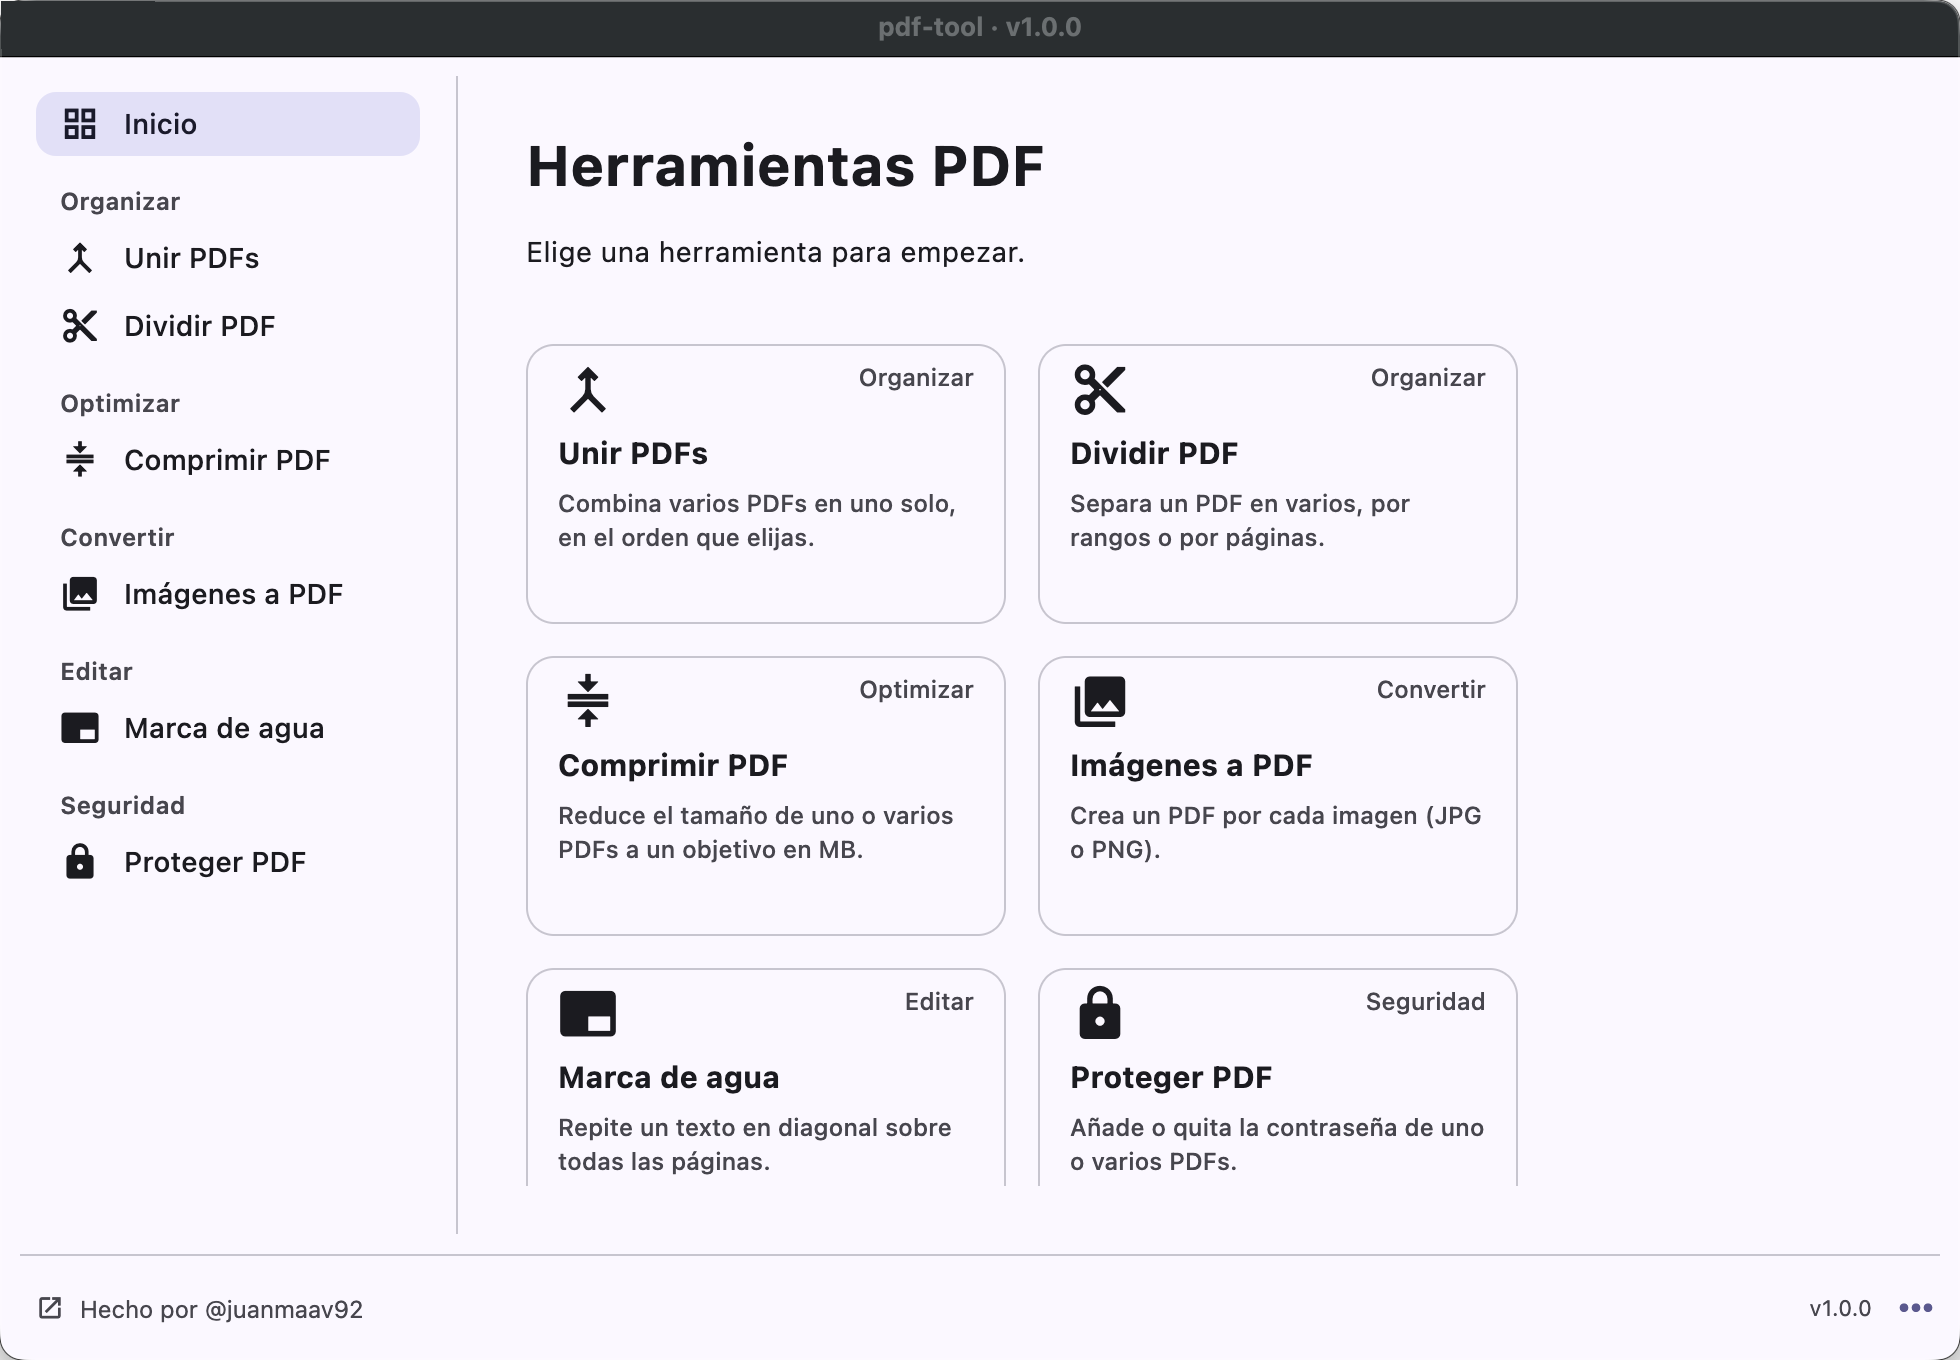
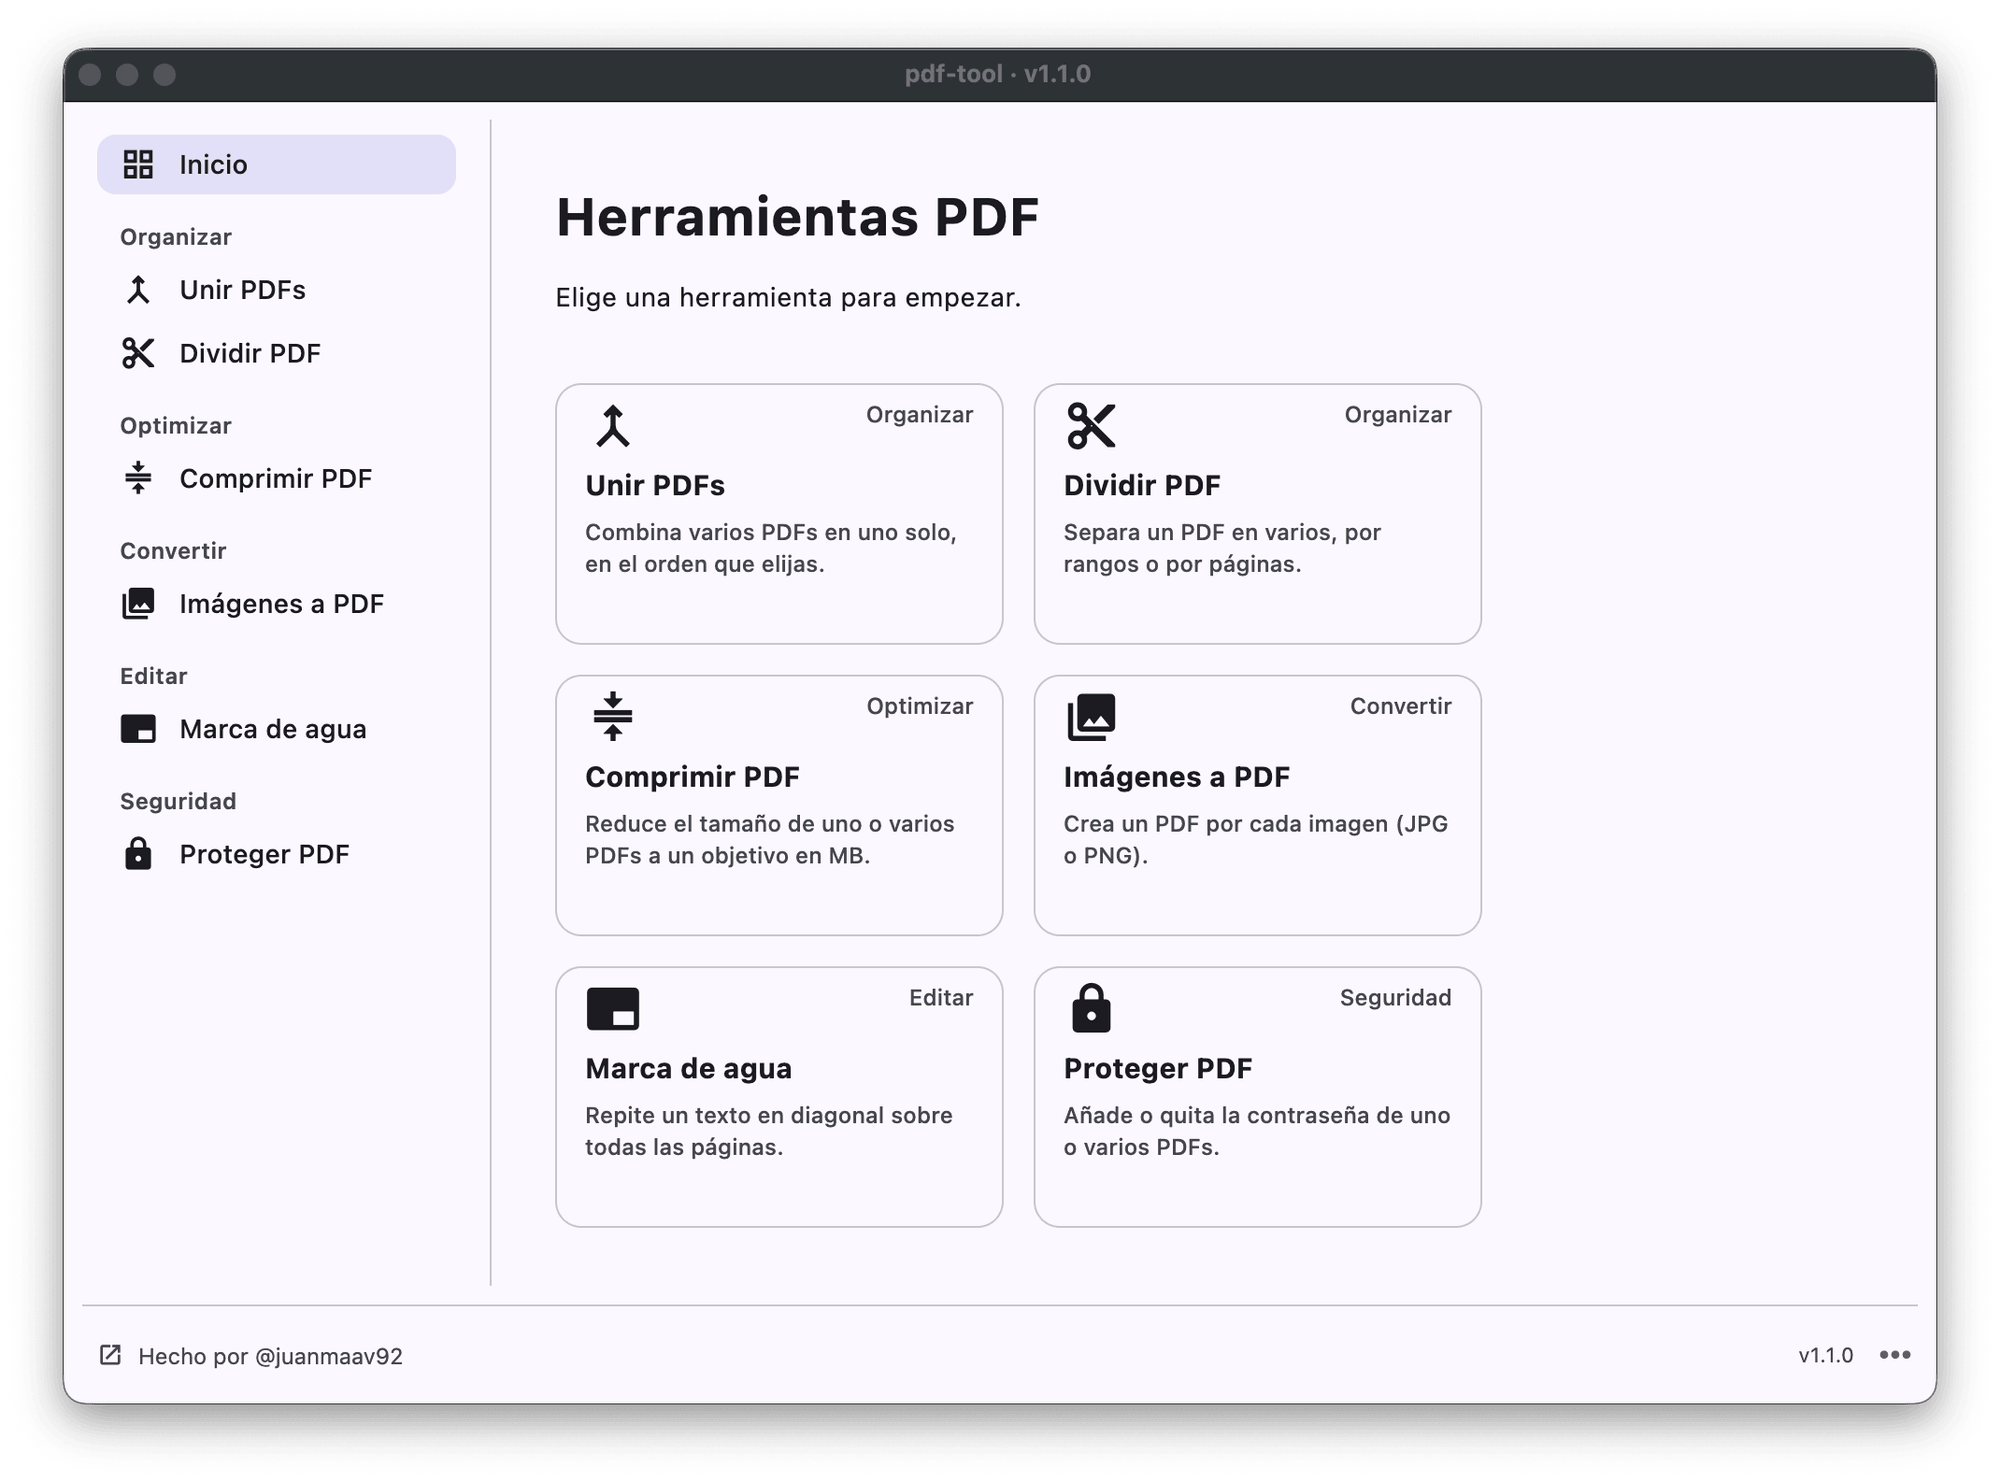
feat(pdf-tool): update the page for v1.1 with the CLI and Claude Code plugin

diff --git a/src/data/repos.ts b/src/data/repos.ts
@@ -110,12 +110,12 @@ export const projects: Repo[] = [
   {
     name: 'pdf-tool',
     description:
-      'Desktop app in Python + Flet. Plugin architecture, logic/UI split, pytest, and automated macOS/Windows releases.',
+      'Desktop app and CLI in Python + Flet. Plugin architecture, logic/UI split, pytest, automated macOS/Windows releases, published on PyPI, and a Claude Code plugin for AI agents.',
     url: 'https://github.com/juanMaAV92/pdf-tool',
-    tags: ['Python', 'Flet', 'Desktop'],
+    tags: ['Python', 'Flet', 'CLI', 'PyPI'],
     featured: true,
     page: '/pdf-tool',
-    context: 'Desktop app · private PDF workflows · open source',
+    context: 'Desktop app + CLI · private PDF workflows · open source',
   },
 ];
 
